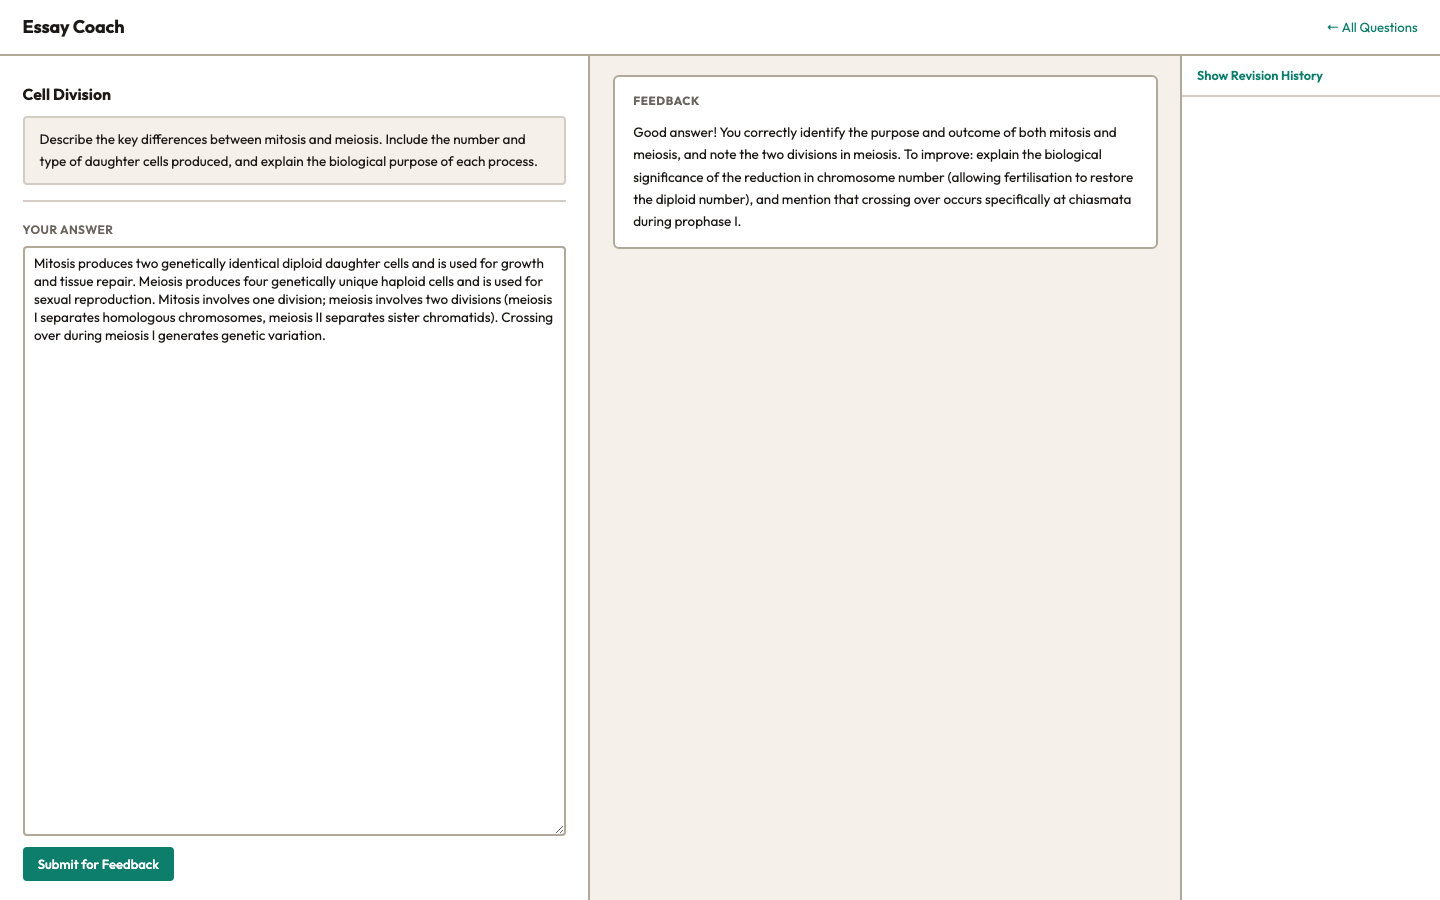
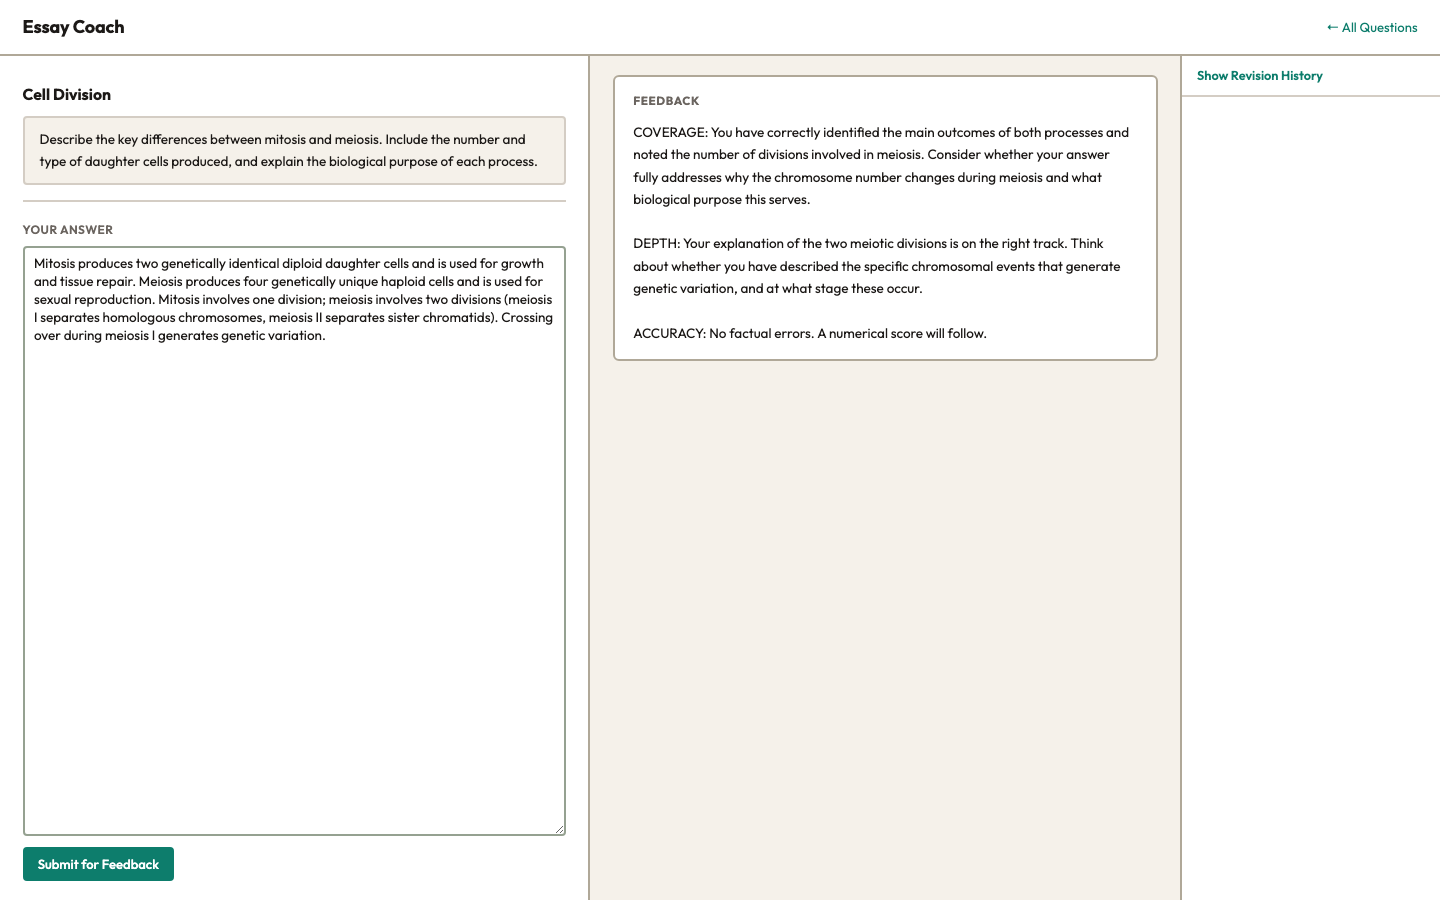
Fix mock feedback in screenshots to not reveal model answer
Tutorial screenshots showed overly specific feedback that leaked
model answer content. Replaced with directional COVERAGE/DEPTH/
ACCURACY format matching the real system prompt behaviour.

Changed region(s): [[0.4375, 0.1244, 0.7812, 0.4044]]

diff --git a/docs/capture_screenshots.py b/docs/capture_screenshots.py
@@ -141,12 +141,14 @@ async def run():
             const fc = document.getElementById('feedback-content');
             if (fb && fc) {
                 fb.style.display = 'block';
-                fc.textContent = 'Good answer! You correctly identify the purpose and outcome '
-                    + 'of both mitosis and meiosis, and note the two divisions in meiosis. '
-                    + 'To improve: explain the biological significance of the reduction in '
-                    + 'chromosome number (allowing fertilisation to restore the diploid number), '
-                    + 'and mention that crossing over occurs specifically at chiasmata during '
-                    + 'prophase I.';
+                fc.textContent = 'COVERAGE: You have correctly identified the main outcomes '
+                    + 'of both processes and noted the number of divisions involved in meiosis. '
+                    + 'Consider whether your answer fully addresses why the chromosome number '
+                    + 'changes during meiosis and what biological purpose this serves.\\n\\n'
+                    + 'DEPTH: Your explanation of the two meiotic divisions is on the right '
+                    + 'track. Think about whether you have described the specific chromosomal '
+                    + 'events that generate genetic variation, and at what stage these occur.\\n\\n'
+                    + 'ACCURACY: No factual errors. A numerical score will follow.';
             }
             const ss = document.getElementById('score-section');
             if (ss) ss.style.display = 'none';
@@ -187,10 +189,11 @@ async def run():
         await sp.evaluate("""() => {
             const fc = document.getElementById('feedback-content');
             if (fc) {
-                fc.textContent = 'Improved from your previous attempt (5/12 → 9/12)! '
-                    + 'You now correctly describe crossing over and both divisions of meiosis. '
-                    + 'Still to address: the biological significance of the haploid chromosome '
-                    + 'number for fertilisation.';
+                fc.textContent = 'PROGRESS: Improved from your previous attempt (5/12 → 9/12)! '
+                    + 'You now address genetic variation more specifically. '
+                    + 'Still to develop: consider whether your answer fully explains '
+                    + 'the significance of the chromosome number change and why it matters '
+                    + 'for the next stage of the life cycle.';
             }
         }""")
         await save(sp, "student-revision.png")
